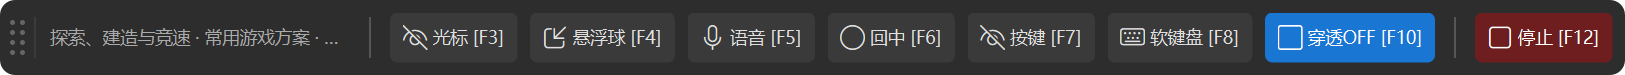
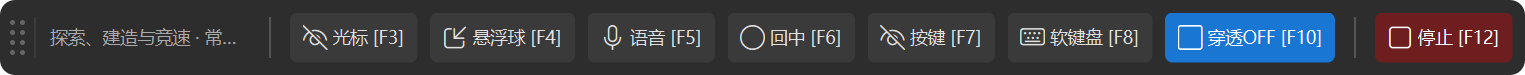
refactor(ui): narrow run profile label to fit common names

diff --git a/docs/ui-review.html b/docs/ui-review.html
@@ -27,7 +27,7 @@
    <article><h3>键盘模式 · 1070×157</h3><a href="ui-client-EditToolbar.png"><img src="ui-client-EditToolbar.png" alt="键盘模拟模式"></a></article>
    <article><h3>手柄模式 · 同宽，入口随模式变化</h3><a href="ui-client-EditToolbar-gamepad.png"><img src="ui-client-EditToolbar-gamepad.png" alt="手柄模拟模式"></a></article>
   </div>
-  <article style="margin-top:18px"><h3>运行工具栏 · 240 px 纯文字方案 / 14 px 字号</h3><a href="ui-running-run-toolbar.png"><img src="ui-running-run-toolbar.png" alt="客户端运行工具栏组件，方案名称去掉图标"></a><small>客户端现有运行组件截图，预览不启动输入监听。</small></article>
+  <article style="margin-top:18px"><h3>运行工具栏 · 160 px 纯文字方案 / 14 px 字号</h3><a href="ui-running-run-toolbar.png"><img src="ui-running-run-toolbar.png" alt="客户端运行工具栏组件，方案名称去掉图标"></a><small>客户端现有运行组件截图，预览不启动输入监听。</small></article>
   <article><h3>长方案名称与悬浮球 · 同为 60 px 高</h3><a href="ui-client-RunToolbar-long-name.png"><img src="ui-client-RunToolbar-long-name.png" alt="长方案名称与全部原有入口"></a><a href="ui-running-bubble.png" style="margin-top:16px"><img src="ui-running-bubble.png" alt="60×60 面板灰悬浮球"></a></article>
  </section>
  <section id="editors"><h2>编辑弹窗</h2><p>实际 Qt 组件截图。流程引导在底栏左侧；确认与槽式选择采用对应窗口主题：通用琥珀、轮盘玫红、语音绿色。原有字段、候选动作与预览保持原功能。</p><div class="grid" id="editor-grid"></div></section>

diff --git a/views/run_toolbar.py b/views/run_toolbar.py
@@ -1,6 +1,6 @@
 """
 TEGG Touch 蛋挞 (PyQt6) - run_toolbar.py
-运行模式工具栏 — 60px 高单行，240px 纯文字方案区域。
+运行模式工具栏 — 60px 高单行，160px 纯文字方案区域。
 保留光标、悬浮球、语音、回中、显隐、软键盘、穿透与停止入口。
 """
 
@@ -31,7 +31,7 @@ C_BLUE_H = "#2196F3"
 # 运行工具栏最小宽度与固定高度
 RUN_W = 1070
 RUN_H = 60
-RUN_PROFILE_W = 240
+RUN_PROFILE_W = 160
 RUN_BOTTOM_MARGIN = 50
 
 

diff --git a/docs/ui-redesign-plan.md b/docs/ui-redesign-plan.md
@@ -69,6 +69,11 @@
 - 28 项 UI 行为检查通过，包含语音嵌套宏保存、长名称与中英文按钮可见、1920×1080 下居中 / 位置恢复、悬浮球三键与拖动。23 项指针检查通过；更新 46 张实际 Qt 视图并刷新正常入口客户端截图。
 - `python scripts/review_ui.py --themes` 通过原入口依次预览轮盘 / 语音，丢弃轮盘临时选项并停留在语音设置。运行栏 / 悬浮球截图来自客户端现有组件，预览脚本不启动输入监听。
 
+## 最新调整：运行方案名称收窄
+
+- 运行栏方案名称区域从 240 px 收窄到 160 px；14 px 字号下，常见游戏名称加操作方式约 110～130 px，160 px 留有适度空间。固定宽度保持切换方案时右侧入口稳定，特别长的名称继续省略并保留全文提示。
+- 运行栏总宽随内容减少 80 px，保留 60 px 高度、全部原有按钮和拖动 / 定位行为。复用现有中英文长名称及 1920×1080 定位检查。
+
 ## 分支与基线
 
 - 分支：`feature/ui-inputegg`，基于本地 `main`，基线提交 `2b91464`。

diff --git a/docs/ui-color-inventory.md b/docs/ui-color-inventory.md
@@ -23,7 +23,7 @@
 
 最新功能主题例外：中心轮盘设置的原琥珀全部改为玫红 `#F43F5E` / 悬停 `#E11D48`；语音设置、测试及语音子弹窗的原琥珀全部改为绿 `#10B981` / 悬停 `#059669`。两者包含标题竖线、切换选中面与确认按钮，语音按键值 Tag 同样绿色。通用窗口继续琥珀；从语音打开的宏编辑继承绿色。最新规则优先于下文历史盘点。
 
-运行悬浮球为 60×60，与运行栏等高，常态 / 悬停背景均用面板灰 `#2D2D2D`；外框圆角 12 px。运行栏方案区域是 240 px 纯文字，字号 14 px，与按钮一致；长名称省略，悬停可查看全文。
+运行悬浮球为 60×60，与运行栏等高，常态 / 悬停背景均用面板灰 `#2D2D2D`；外框圆角 12 px。运行栏方案区域是 160 px 纯文字，字号 14 px，与按钮一致；长名称省略，悬停可查看全文。
 
 ## 基础颜色
 
